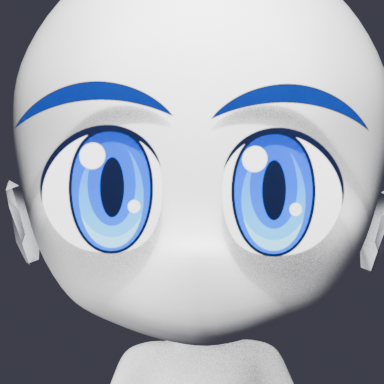
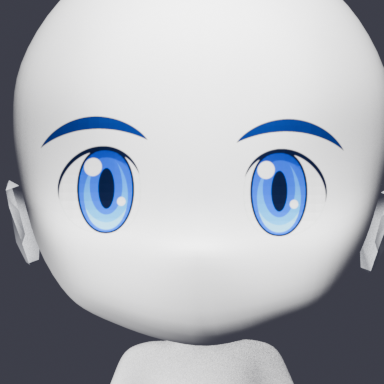
fit eye assembly to actor face

diff --git a/tools/blender/build_eye_assembly_v1.py b/tools/blender/build_eye_assembly_v1.py
@@ -35,9 +35,9 @@ def cli_args() -> argparse.Namespace:
     parser.add_argument("--output", type=Path, required=True)
     parser.add_argument("--save-blend", type=Path, required=True)
     parser.add_argument("--frame", type=int, default=1)
-    parser.add_argument("--width-scale", type=float, default=1.0)
-    parser.add_argument("--height-scale", type=float, default=1.0)
-    parser.add_argument("--clearance", type=float, default=0.018)
+    parser.add_argument("--width-scale", type=float, default=0.68)
+    parser.add_argument("--height-scale", type=float, default=0.68)
+    parser.add_argument("--clearance", type=float, default=0.008)
     parser.add_argument("--curvature", type=float, default=0.018)
     return parser.parse_args(argv)
 
@@ -95,6 +95,17 @@ def parent_to_head(obj: bpy.types.Object, armature: bpy.types.Object) -> None:
     obj.matrix_world = world
 
 
+def add_surface_fit(obj: bpy.types.Object, actor_mesh: bpy.types.Object, offset: float = 0.002) -> None:
+    shrink = obj.modifiers.new("EyeAssemblyV1_FitToHeadSurface", "SHRINKWRAP")
+    shrink.target = actor_mesh
+    shrink.wrap_method = "PROJECT"
+    shrink.wrap_mode = "ON_SURFACE"
+    shrink.use_project_y = True
+    shrink.use_positive_direction = True
+    shrink.use_negative_direction = False
+    shrink.offset = offset
+
+
 def create_curved_surface(
     name: str,
     center: Vector,
@@ -103,6 +114,7 @@ def create_curved_surface(
     curvature: float,
     material: bpy.types.Material,
     armature: bpy.types.Object,
+    actor_mesh: bpy.types.Object,
 ) -> bpy.types.Object:
     cols, rows = 24, 18
     vertices = []
@@ -141,6 +153,7 @@ def create_curved_surface(
     obj["assetslab_role"] = "eye_assembly_v1_front_texture_surface"
     obj["assetslab_parent_bone"] = HEAD_BONE
     obj["assetslab_side_policy"] = "same_3d_assembly_projection"
+    add_surface_fit(obj, actor_mesh)
     parent_to_head(obj, armature)
     return obj
 
@@ -170,7 +183,7 @@ def main() -> int:
     source_bounds = {"L": eye_world_bounds(left_source), "R": eye_world_bounds(right_source)}
     remove_old_eye_objects()
     collection = bpy.data.collections.get("EyeAssemblyV1") or bpy.data.collections.new("EyeAssemblyV1")
-    if collection not in scene.collection.children:
+    if collection.name not in scene.collection.children:
         scene.collection.children.link(collection)
     left_material = make_texture_material("EyeAssemblyV1_ImageGen_L", options.left_texture)
     right_material = make_texture_material("EyeAssemblyV1_ImageGen_R", options.right_texture)
@@ -187,7 +200,7 @@ def main() -> int:
         # assembly center upward so the actual eye remains on the native anchor.
         group_center = Vector((eye_center.x, low.y - options.clearance, eye_center.z + height * 0.10))
         surface = create_curved_surface(
-            f"EyeAssemblyV1_Front_{side}", group_center, width, height, options.curvature, material, armature
+            f"EyeAssemblyV1_Front_{side}", group_center, width, height, options.curvature, material, armature, actor_mesh
         )
         surface["assetslab_native_eye_anchor"] = list(eye_center)
         surface["assetslab_texture"] = str((options.left_texture if side == "L" else options.right_texture).resolve())

diff --git a/docs/EYE_BLINK_DESIGN.md b/docs/EYE_BLINK_DESIGN.md
@@ -53,5 +53,6 @@ Blender 完成四方向 3D→2D 烘焙后，Godot 只负责播放已经验证的
 - 旧 eye-anime gallery：已删除，可从 Git 历史恢复，但不再作为当前实现引用。
 - 第一阶段已建立 `EyeAssemblyV1` 静态结构：`tools/blender/build_eye_assembly_v1.py`。
 - 第一阶段 image_gen 资产：`prototype/assets/generated/eye_assembly_v1/`，眉毛与眼睛由同一张 Q 版日系参考生成，再经过 chroma-key 去背景和左右裁切；没有本地绘制像素。
-- 第一阶段验证输出：`prototype/test_output/eye_assembly_v1/`。它通过 Actor V1 Blend 的 `CC_Base_Head` 父级挂载，正面/三分之四/右侧/背面均已渲染；暂不进入 gallery。
+- 第一阶段验证输出：`prototype/test_output/eye_assembly_v1/`。它通过 Actor V1 Blend 的 `CC_Base_Head` 父级挂载，正面/三分之四/右侧/背面均已渲染；当前作为静态测试候选接入 gallery，不代表最终资源。
+- 当前 gallery 测试候选已更新为较小尺寸：相对 Actor 原生眼睛宽高倍率为 `0.68/0.68`，并在同一头部父级下使用 `EyeAssemblyV1_FitToHeadSurface` Shrinkwrap 贴合头部表面；这只是测试参数，最终尺寸仍以 Actor 标准复核为准。
 - 当前仍未开始眨眼：下一阶段才在这套静态表面上建立稳定拓扑和 `Open/Half/Closed` Shape Keys。

diff --git a/docs/EYE_ANIME_RESET_AND_MATURE_OPTIONS_2026-08-05.md b/docs/EYE_ANIME_RESET_AND_MATURE_OPTIONS_2026-08-05.md
@@ -32,7 +32,7 @@
 
 已完成静态 `EyeAssemblyV1`：使用 image_gen 生成的眉毛+眼睛组合参考，裁切为左右 RGBA 资产，并由两个同构的浅曲面组成同一个 `EyeAssemblyV1` 集合。两个表面都直接 Bone Parent 到 `Armature/CC_Base_Head`，旧 `EyePackageV1_*` 和 `EyeBlinkV1_*` 对象在实验 Blend 中已移除。
 
-已验证：正面最大睁眼、三分之四投影、右侧边缘投影、背面无眼睛、frame 1/31 的头部跟随。输出仍是 `prototype/test_output/eye_assembly_v1/`，没有加入 gallery，因为眨眼 Shape Keys 和身体 8 帧联动还未验收。
+已验证：正面最大睁眼、三分之四投影、右侧边缘投影、背面无眼睛、frame 1/31 的头部跟随。后续复核发现初版尺寸偏大且表面浮空，已在不新增 image_gen 的前提下将测试倍率调整为 `0.68/0.68`，并加入头部表面 Shrinkwrap；当前版本已接入 gallery，但仍不是眨眼或最终资源。
 
 ## 暂不做
 
